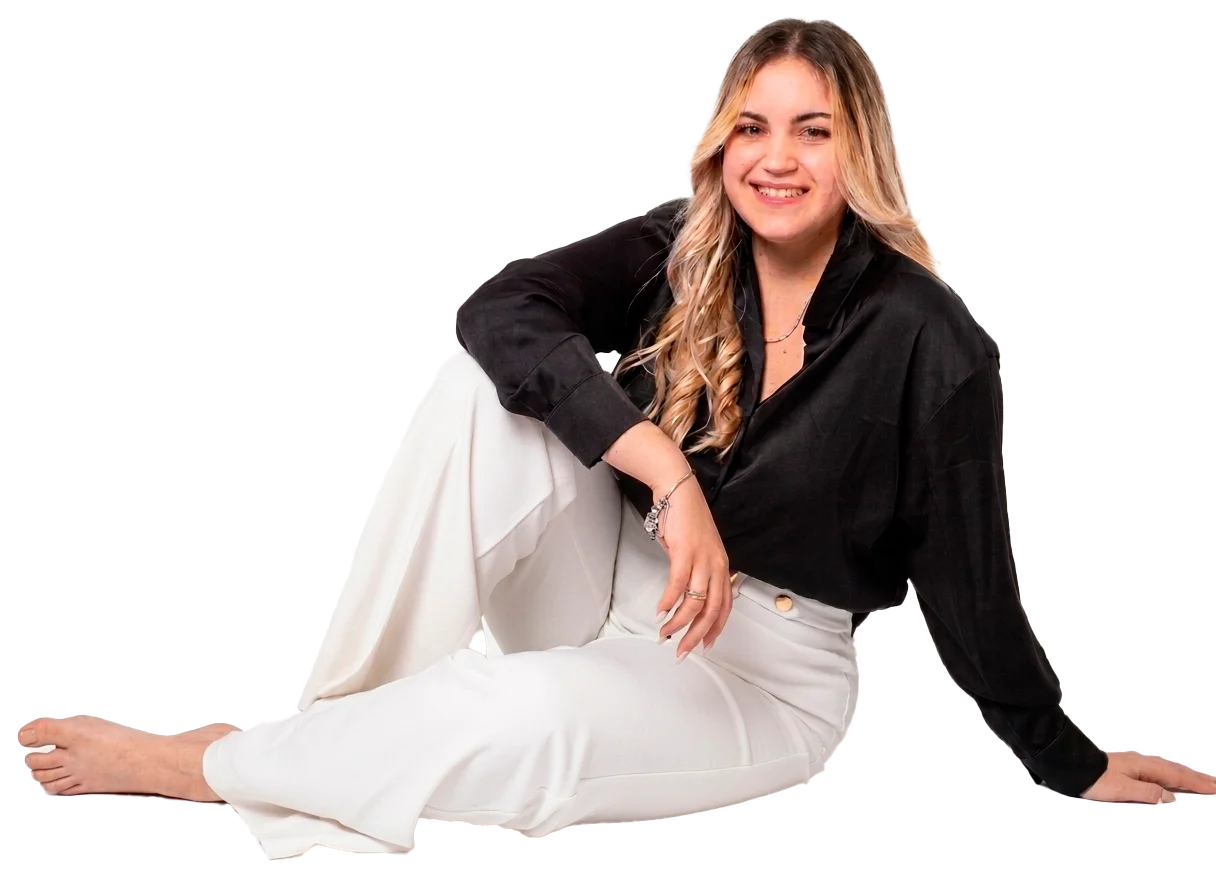
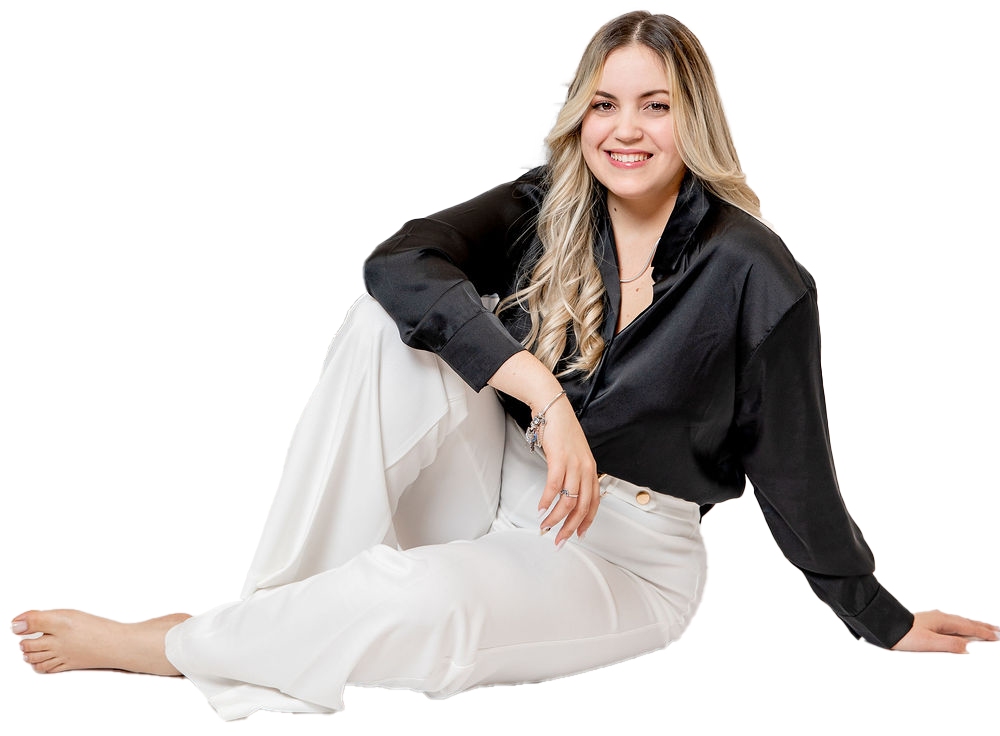
change images

diff --git a/src/modules/home/components/Hero.tsx b/src/modules/home/components/Hero.tsx
@@ -185,7 +185,7 @@ export default function Hero({
                             />
 
                             <StatAnimate
-                                value={content.home.stats.years_of_experience}
+                                value={content.home.stats.satisfied_customers}
                                 label="Clientes Satisfechos"
                             />
 
@@ -250,14 +250,14 @@ export default function Hero({
                     </Stack>
 
                     <Transition type="rigth" velocity="slow" index={1}>
-                        <Stack zIndex={5}>
+                        <Stack zIndex={5} p={4}>
                             <Image
                                 zIndex={5}
                                 src="/home/Hero.webp"
                                 alt="mujer sonriente"
                                 w="100%"
                                 h="100%"
-                                borderRadius="99px"
+                                borderRadius="full"
                                 objectFit="cover"
                             />
                         </Stack>

diff --git a/src/modules/home/components/Need.tsx b/src/modules/home/components/Need.tsx
@@ -11,7 +11,7 @@ export default function Need({
     content: ContentType
 }) {
     return (
-        <Box bg="terciary.500" px={{ base: 4, md: 8 }} position={"relative"} overflow={"hidden"} h={'100vh'} alignContent={'center'}>
+        <Box bg="terciary.500" px={{ base: 6, md: 8 }} position={"relative"} overflow={"hidden"} minH={'100vh'} pt={{ base: 12, md: 0 }} alignContent={'center'}>
 
             {/* Círculo grande */}
             <Box
@@ -60,6 +60,7 @@ export default function Need({
                             objectFit="contain"
                             maxH="500px"
                             w="full"
+                            borderRadius={{ base: 'inherit', md: 'full' }}
                         />
                     </Transition>
                 </GridItem>
